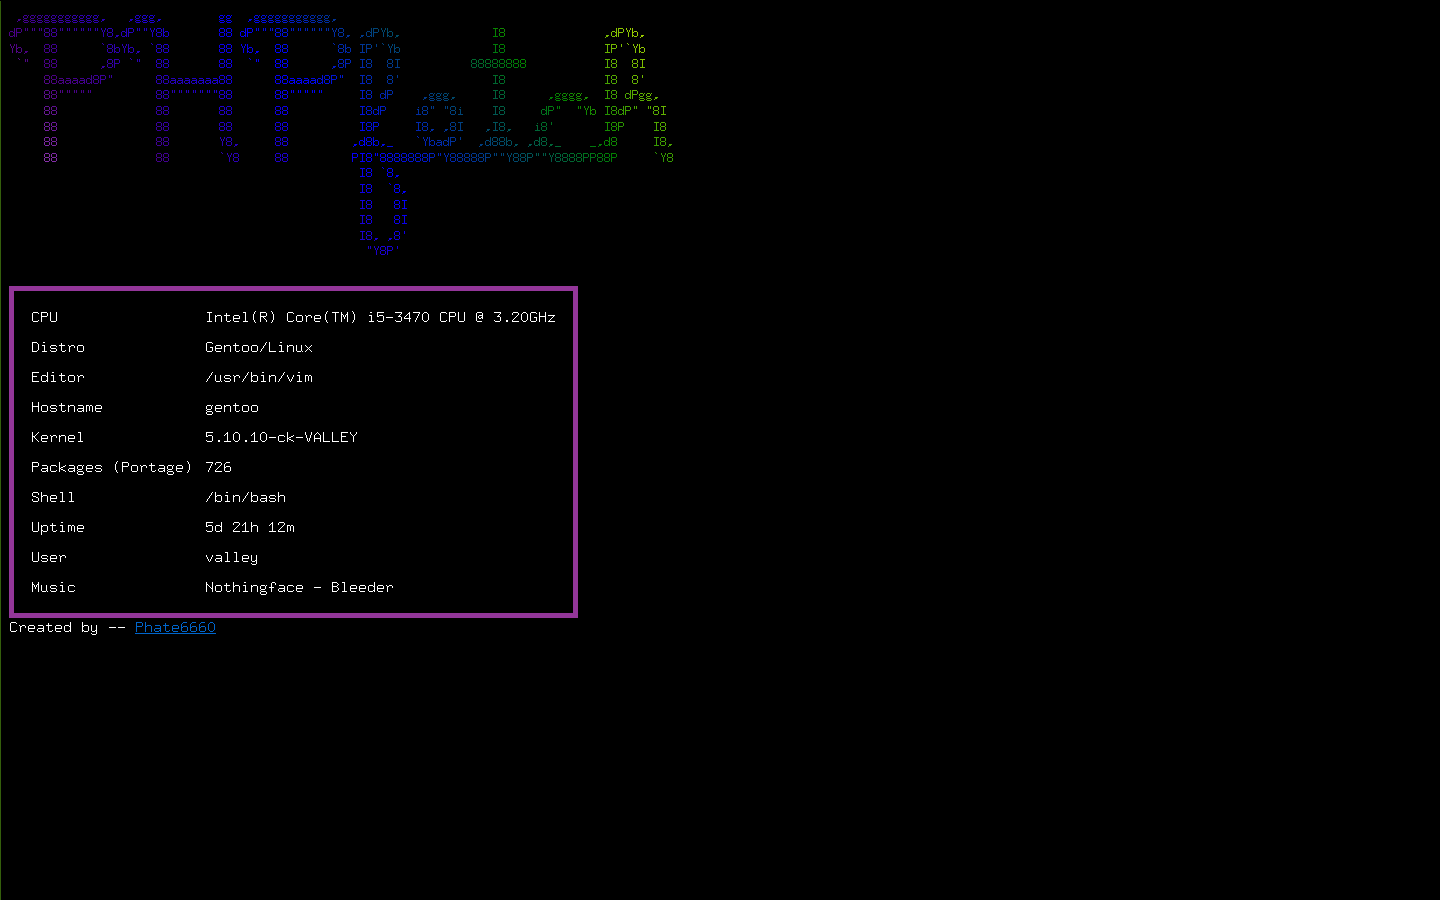
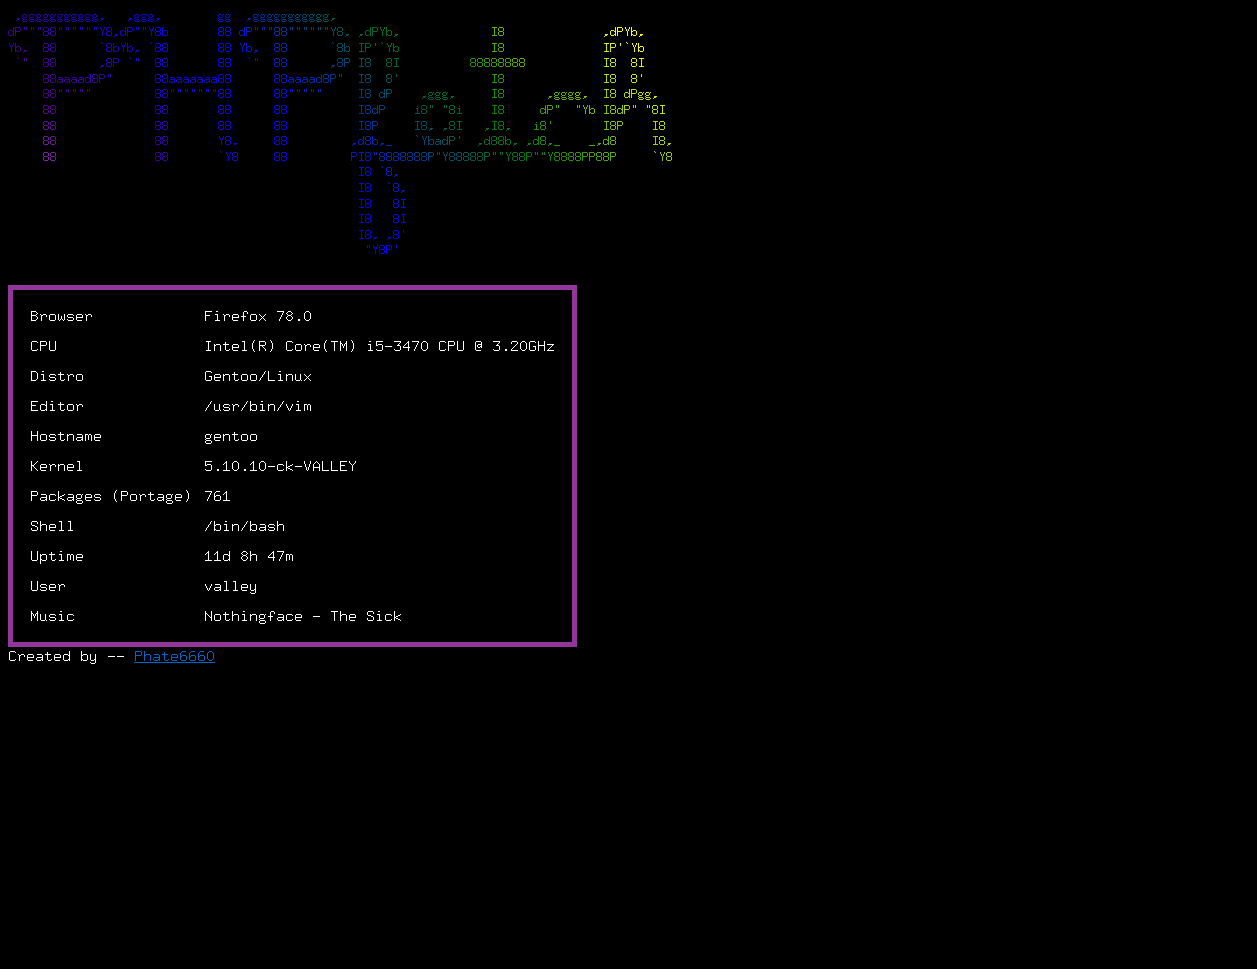
add browser field

Changed region(s): [[0.0, 0.0, 0.5274, 0.7156]]

diff --git a/phpfetch.php b/phpfetch.php
@@ -45,6 +45,9 @@ Yb,  88      `8bYb, `88       88 Yb,  88      `8b IP'`Yb             I8         
   </pre>
   <!-- This PHP block will gather information and assemble it all into an array called `output`. -->
   <?php
+    /* Browser */
+    $browser = get_browser(null, true);
+
     /* CPU */
     $cpu_file = fopen("/proc/cpuinfo", "r");
     error_reporting (E_ALL ^ E_NOTICE);
@@ -115,6 +118,7 @@ Yb,  88      `8bYb, `88       88 Yb,  88      `8b IP'`Yb             I8         
     
     /* Asseble output into an array*/
     $output = array(
+                array("title"=>"Browser", "Info"=>"$browser[parent]"),
                 array("title"=>"CPU", "Info"=>"$cpu"),
                 array("title"=>"Distro", "Info"=>"$distro"),
                 array("title"=>"Editor", "Info"=>"$editor"),

diff --git a/README.md b/README.md
@@ -2,11 +2,15 @@
 An info fetch tool written in PHP. Because why not. /shrug
 
 ## Running
-- Install PHP
+- Install PHP and composer
 - Clone the repo:
   + `git clone https://github.com/Phate6660/phpfetch && cd phpfetch`
+- Get browscap:
+  + `composer require browscap/browscap-php`
+  + `vendor/bin/browscap-php browscap:fetch`
+  + `vendor/bin/browscap-php browscap:convert`
 - Run the PHP server:
-  + `php -S localhost:8000`
+  + `php -c php.ini -S localhost:8000`
 - Open the web page in your browser at `localhost:8000/phpfetch.php`
 
 ## Output
